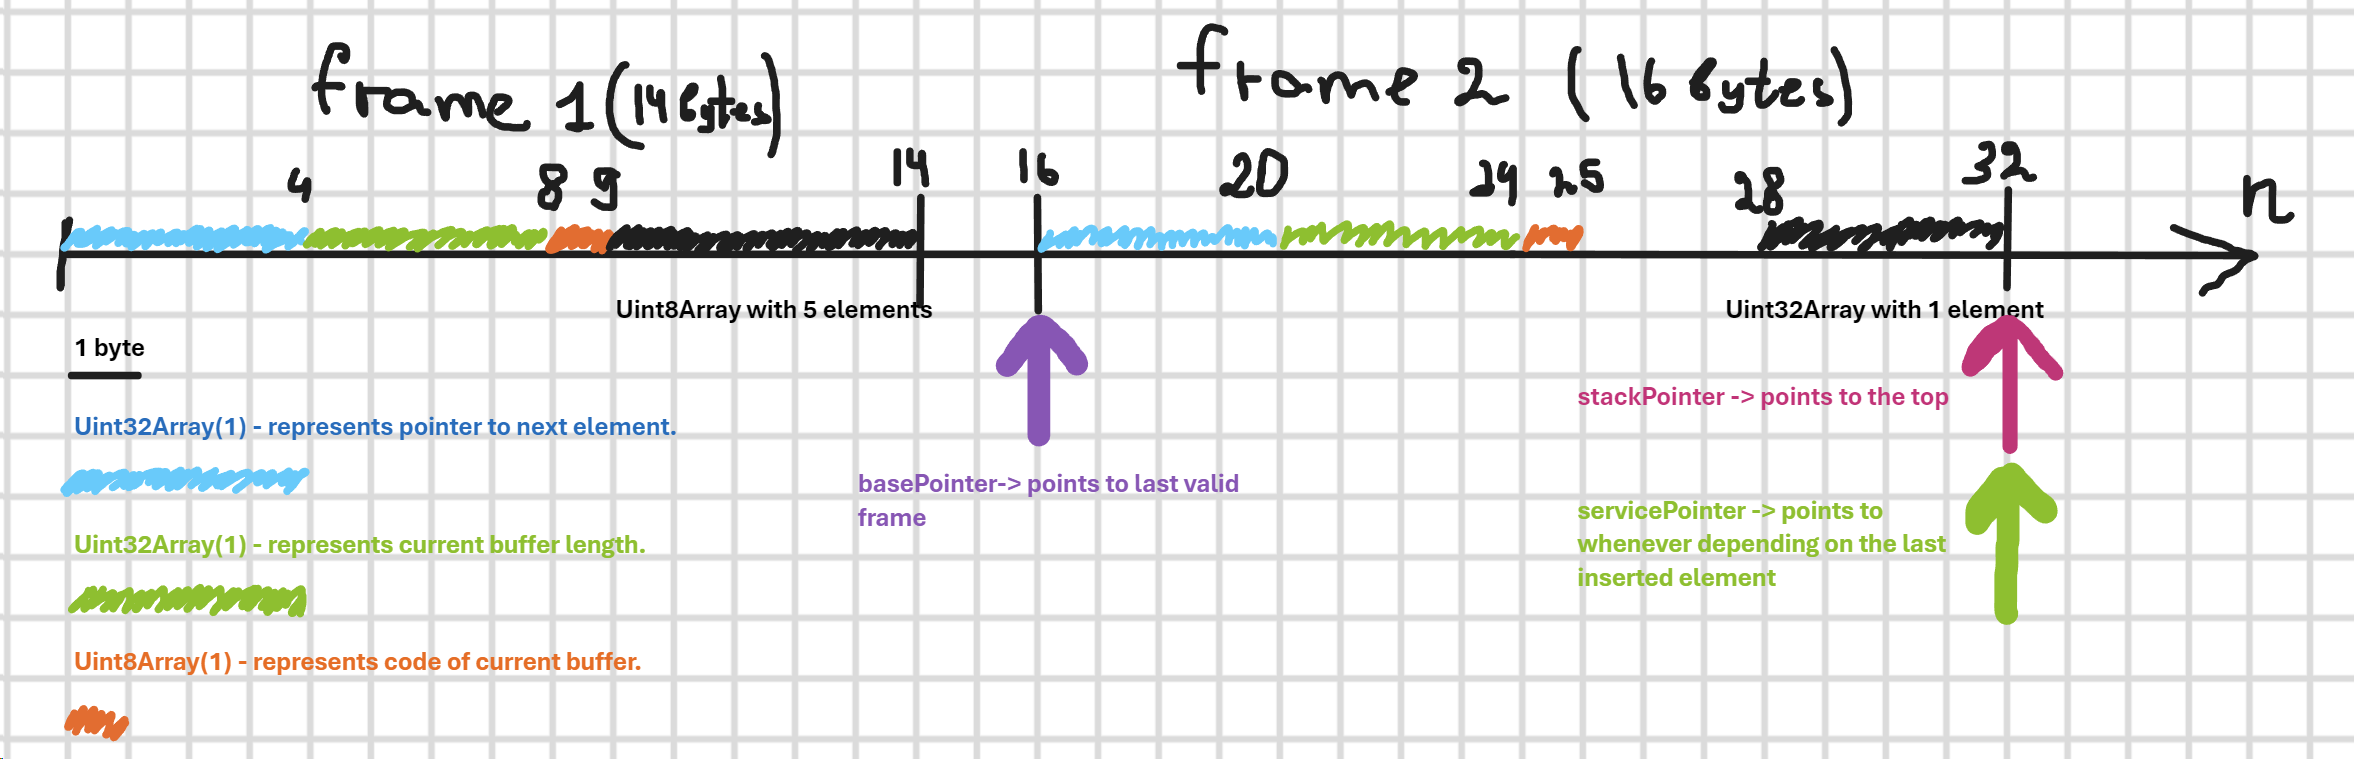
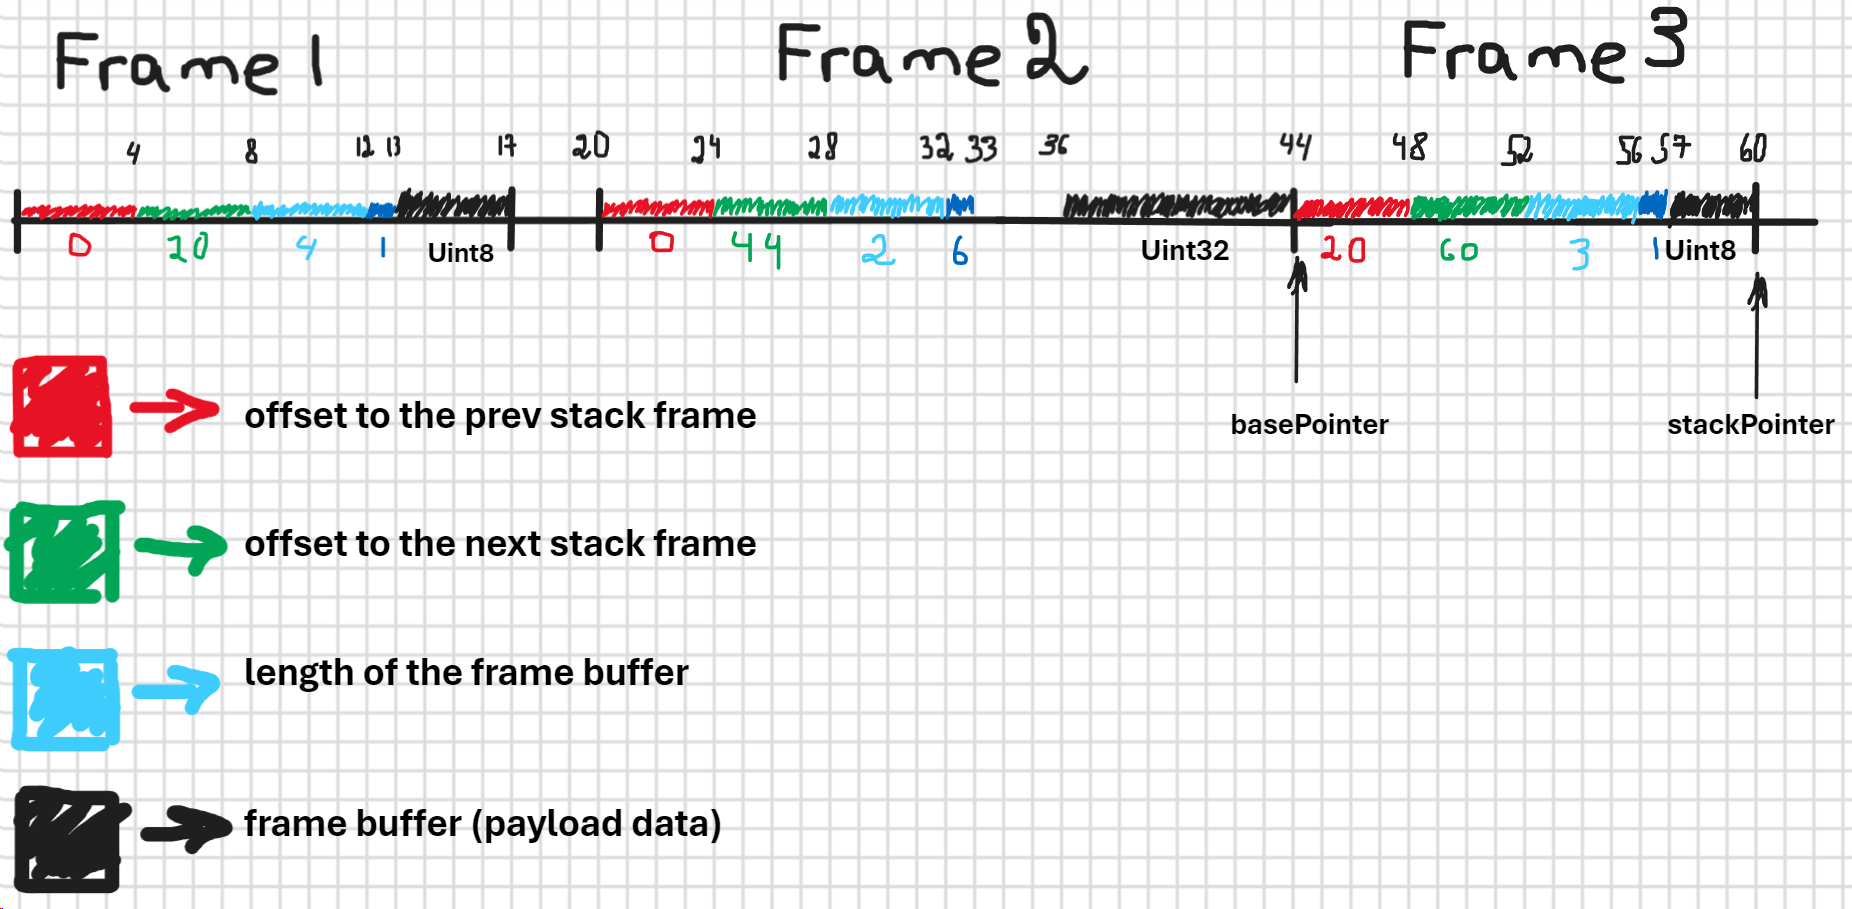
readme added

diff --git a/core/09-memory-manager/readme.md b/core/09-memory-manager/readme.md
@@ -1,1 +1,9 @@
 ![alt text](image.png)
+
+\*each cell takes 1 byte
+
+# Lense
+
+**.pop()**, **.peek()** and **.push()** returns **Lense**. **Lense** is handy way to work with frame buffers where the payload bytes is stored.
+
+You care read and write data as if you were working with an array. Your requests such as **.get(idx)** **.set(idx)** takes indexes which are automatically coverted to the correct offsets.
